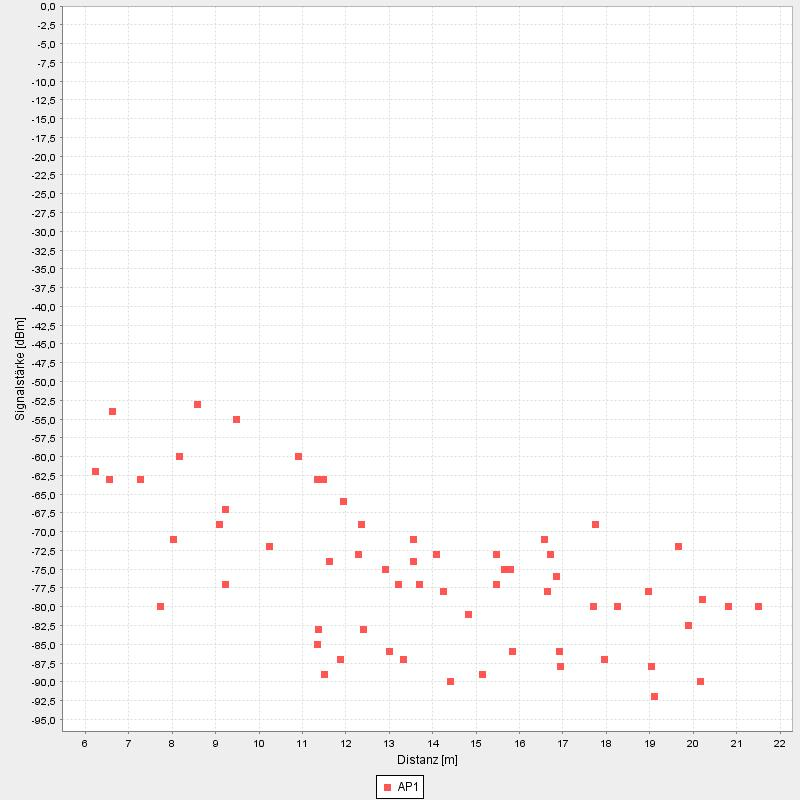
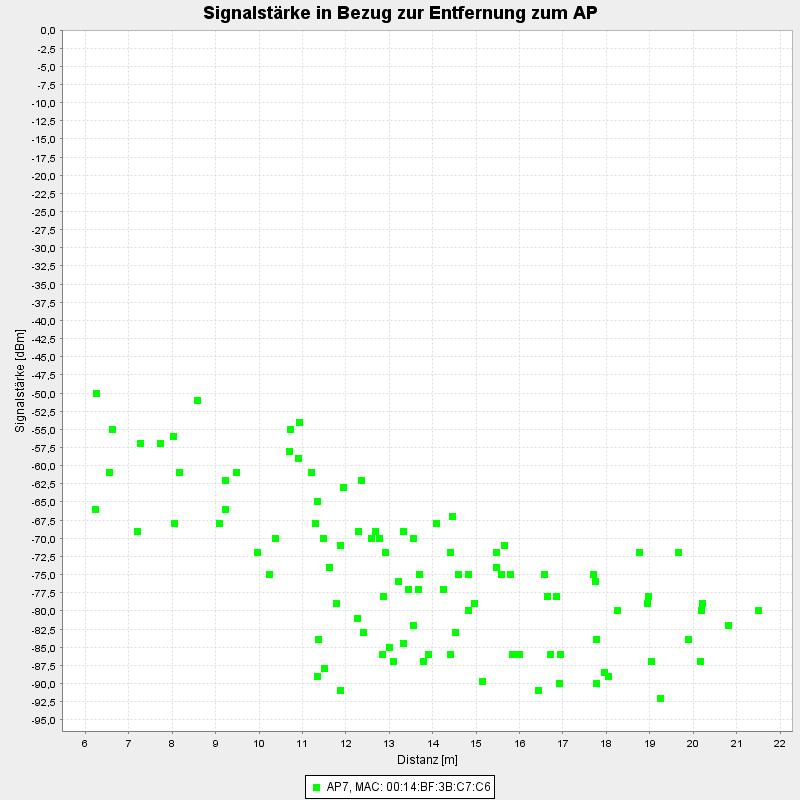
Diagramm (Signalstärke/Entfernung) mit Überschrift, AP-Nr. und grünen Punkten

diff --git a/Praktikumsteil3/LocUtil/src/Diagramme/Diagram.java b/Praktikumsteil3/LocUtil/src/Diagramme/Diagram.java
@@ -100,6 +100,7 @@ public class Diagram extends ApplicationFrame {
 		final XYPlot plot = chart.getXYPlot();
 	    final XYLineAndShapeRenderer renderer = new XYLineAndShapeRenderer();
 	    renderer.setSeriesLinesVisible(0, false);
+	    renderer.setSeriesPaint(0, Color.GREEN);
 	    plot.setRenderer(renderer);
 
 		File file = new File(dateiname);
